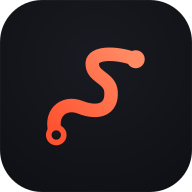
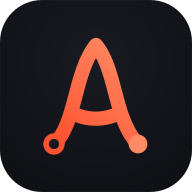
Rename the project to Activity Atlas (#37)
* feat: rename the project to Activity Atlas

Product identity drops Strava (and the Trace wordmark): package
activity-atlas, MCP server name activity-atlas, User-Agents
activity-atlas[-mcp|-build], README/CONTEXT title, tab title, manifest
and header wordmark. Strava stays in the copy as a supported source.

Docs no longer hardcode the owner's domain, and the build takes its
base path from actions/configure-pages, so a copy without a custom
domain works at <user>.github.io/<repo>/. Manifest icons are relative
for the same reason.

Part of #23 (workstream 1).

* feat: A-trace logo for Activity Atlas

The icon is now the letter A drawn as one route in the old logo's
style: start ring at the left foot, up to the summit, down the right
leg with the crossbar as an out-and-back, finish dot at the right
foot. PNGs regenerated with build:icons.

* feat: curvier A-trace logo

Each leg is now one S-curve that flares at the foot, with a curved
crossbar, so the A reads as a peak. Still one route: start ring,
summit, out-and-back crossbar, finish dot. PNGs regenerated.

---------

Changed region(s): [[0.2188, 0.1875, 0.7812, 0.8125]]

diff --git a/app/src/ui/Header.tsx b/app/src/ui/Header.tsx
@@ -1,8 +1,8 @@
-// Top bar: TRACE / Activity Atlas wordmark, the Map / Analytics page switch, and the
+// Top bar: the Activity Atlas wordmark, the Map / Analytics page switch, and the
 // light/dark theme toggle. Overlays both pages.
 
 import type { ComponentType, CSSProperties } from "react";
-import { MONO, glass } from "./theme";
+import { glass } from "./theme";
 import type { Theme } from "../types";
 import type { View } from "./useView";
 
@@ -46,20 +46,17 @@ export function Header({ theme, onToggleTheme, view, onViewChange }: Props) {
             boxShadow: "0 0 14px var(--accent)",
           }}
         />
-        <div style={{ display: "flex", flexDirection: "column", lineHeight: 1.15 }}>
-          <span style={{ fontSize: 15, fontWeight: 700, letterSpacing: ".14em" }}>TRACE</span>
-          <span
-            style={{
-              fontFamily: MONO,
-              fontSize: 9.5,
-              letterSpacing: ".22em",
-              color: "var(--text-muted)",
-              textTransform: "uppercase",
-            }}
-          >
-            Activity Atlas
-          </span>
-        </div>
+        <span
+          style={{
+            fontSize: 15,
+            fontWeight: 700,
+            letterSpacing: ".14em",
+            textTransform: "uppercase",
+            lineHeight: 1.15,
+          }}
+        >
+          Activity Atlas
+        </span>
       </div>
 
       <div

diff --git a/scripts/build-city-distances.ts b/scripts/build-city-distances.ts
@@ -127,7 +127,7 @@ export function selectCandidates(cities: GeoCity[], origin: LatLon = ORIGIN): Ca
 
 export const OSRM_BASE = "https://routing.openstreetmap.de";
 const OSRM_PROFILE: Record<Profile, string> = { cycling: "bike", walking: "foot" };
-export const USER_AGENT = "strava-on-maps-build (https://github.com/jakaskerjanc/strava-on-maps)";
+export const USER_AGENT = "activity-atlas-build (https://github.com/jakaskerjanc/activity-atlas)";
 /** Douglas–Peucker tolerance (meters) for stored route lines: overview quality. */
 export const SIMPLIFY_M = 500;
 /** Total ferry distance above which a profile's route is rejected. */

diff --git a/app/vite.config.ts b/app/vite.config.ts
@@ -1,9 +1,11 @@
 import { defineConfig } from "vite";
 import react from "@vitejs/plugin-react";
 
-// Served from the root of a custom domain (https://strava-map.jakas.si/).
+// BASE_PATH is the Pages site's path prefix, set by the deploy workflow from
+// actions/configure-pages: empty on a custom domain (served from the root),
+// "/<repo>" on <user>.github.io. Unset locally, so dev and preview serve from "/".
 export default defineConfig({
-  base: "/",
+  base: `${process.env.BASE_PATH ?? ""}/`,
   envDir: "..",
   plugins: [react()],
 });

diff --git a/app/src/MapView.tsx b/app/src/MapView.tsx
@@ -1,5 +1,5 @@
 // Owns the Mapbox GL map. Renders activity routes as a glow + core line pair in the
-// Trace Atlas style, drives hover/selection highlighting, and plays a fade-in reveal
+// Activity Atlas style, drives hover/selection highlighting, and plays a fade-in reveal
 // (re-triggered by REPLAY). Which activities show is decided upstream (activityFilter.ts);
 // this module only applies the expression it is handed. In the Elevation color mode the
 // routes are drawn as grade runs (grade.ts) instead of whole lines. A distance

diff --git a/app/src/ui/theme.ts b/app/src/ui/theme.ts
@@ -1,4 +1,4 @@
-// Shared visual tokens for the Trace Atlas chrome. Text/control colors resolve to CSS
+// Shared visual tokens for the Activity Atlas chrome. Text/control colors resolve to CSS
 // variables (see index.css) so they flip between the dark and light themes via the
 // data-theme attribute on <html>. The panel material itself is also CSS — the
 // --panel-bg/--panel-border/--panel-blur tokens in index.css.

diff --git a/app/index.html b/app/index.html
@@ -3,7 +3,7 @@
   <head>
     <meta charset="UTF-8" />
     <meta name="viewport" content="width=device-width, initial-scale=1.0" />
-    <title>Trace · Activity Atlas</title>
+    <title>Activity Atlas</title>
     <link rel="icon" type="image/svg+xml" href="/favicon.svg" />
     <link rel="icon" type="image/png" sizes="32x32" href="/icon-32.png" />
     <link rel="apple-touch-icon" href="/apple-touch-icon.png" />

diff --git a/app/src/App.tsx b/app/src/App.tsx
@@ -1,5 +1,5 @@
 // Top-level wiring: load the GeoJSON once, own all UI state, and feed the map + the
-// Trace Atlas panels. Which activities are shown is the Activity filter's call
+// Activity Atlas panels. Which activities are shown is the Activity filter's call
 // (activityFilter.ts); this file holds it and hands its results to the map, the
 // analytics page, and the panels.
 

diff --git a/ingest/mcp_server/__main__.py b/ingest/mcp_server/__main__.py
@@ -26,9 +26,9 @@ def main() -> None:
     # up the client's start-up. Otherwise the first tool call checks R2.
     if not args.no_sync and not os.path.exists(path):
         syncer.maybe_sync(force=True)
-        print(f"strava-on-maps MCP: sync {syncer.last_outcome}", file=sys.stderr)
+        print(f"activity-atlas MCP: sync {syncer.last_outcome}", file=sys.stderr)
     if not os.path.exists(path):
-        print(f"strava-on-maps MCP: no database at {path} (and none could be synced: {syncer.last_outcome})",
+        print(f"activity-atlas MCP: no database at {path} (and none could be synced: {syncer.last_outcome})",
               file=sys.stderr)
         raise SystemExit(2)
 

diff --git a/ingest/mcp_server/server.py b/ingest/mcp_server/server.py
@@ -39,7 +39,7 @@ def _filter(types, date_from, date_to, name_contains, min_distance_m, max_distan
 
 
 def build_server(ctx: ServerContext) -> MCPServer:
-    server = MCPServer(name="strava-on-maps", instructions=guide_text(ctx.db))
+    server = MCPServer(name="activity-atlas", instructions=guide_text(ctx.db))
 
     def run(fn: Callable[[], dict], force_sync: bool = False) -> dict:
         with ctx.lock:

diff --git a/ingest/tests/test_mcp_places.py b/ingest/tests/test_mcp_places.py
@@ -39,7 +39,7 @@ def test_request_shape(tmp_path):
 
 
 def test_user_agent_names_the_app_not_a_person():
-    assert places.USER_AGENT == "strava-on-maps-mcp/0.1 (+https://github.com/jakaskerjanc/strava-on-maps)"
+    assert places.USER_AGENT == "activity-atlas-mcp/0.1 (+https://github.com/jakaskerjanc/activity-atlas)"
     assert "@" not in places.USER_AGENT
 
 

diff --git a/ingest/mcp_server/places.py b/ingest/mcp_server/places.py
@@ -14,7 +14,7 @@ from collections.abc import Callable
 from .activities import counted
 
 URL = "https://nominatim.openstreetmap.org/search"
-USER_AGENT = "strava-on-maps-mcp/0.1 (+https://github.com/jakaskerjanc/strava-on-maps)"
+USER_AGENT = "activity-atlas-mcp/0.1 (+https://github.com/jakaskerjanc/activity-atlas)"
 MIN_INTERVAL_S = 1.0
 TIMEOUT_S = 10
 

diff --git a/ingest/garmin_api.py b/ingest/garmin_api.py
@@ -28,7 +28,7 @@ _DOWNLOAD_PATH = "/download-service/files/activity/"
 API_KEY_ENV = "GARMIN_PERSONAL_API_KEY"
 BASE_URL_ENV = "GARMIN_PERSONAL_API_BASE_URL"
 DOTENV_FILE = config.DOTENV_FILE
-USER_AGENT = "strava-on-maps/0.1"
+USER_AGENT = "activity-atlas/0.1"
 
 
 class GarminApiError(Exception):
